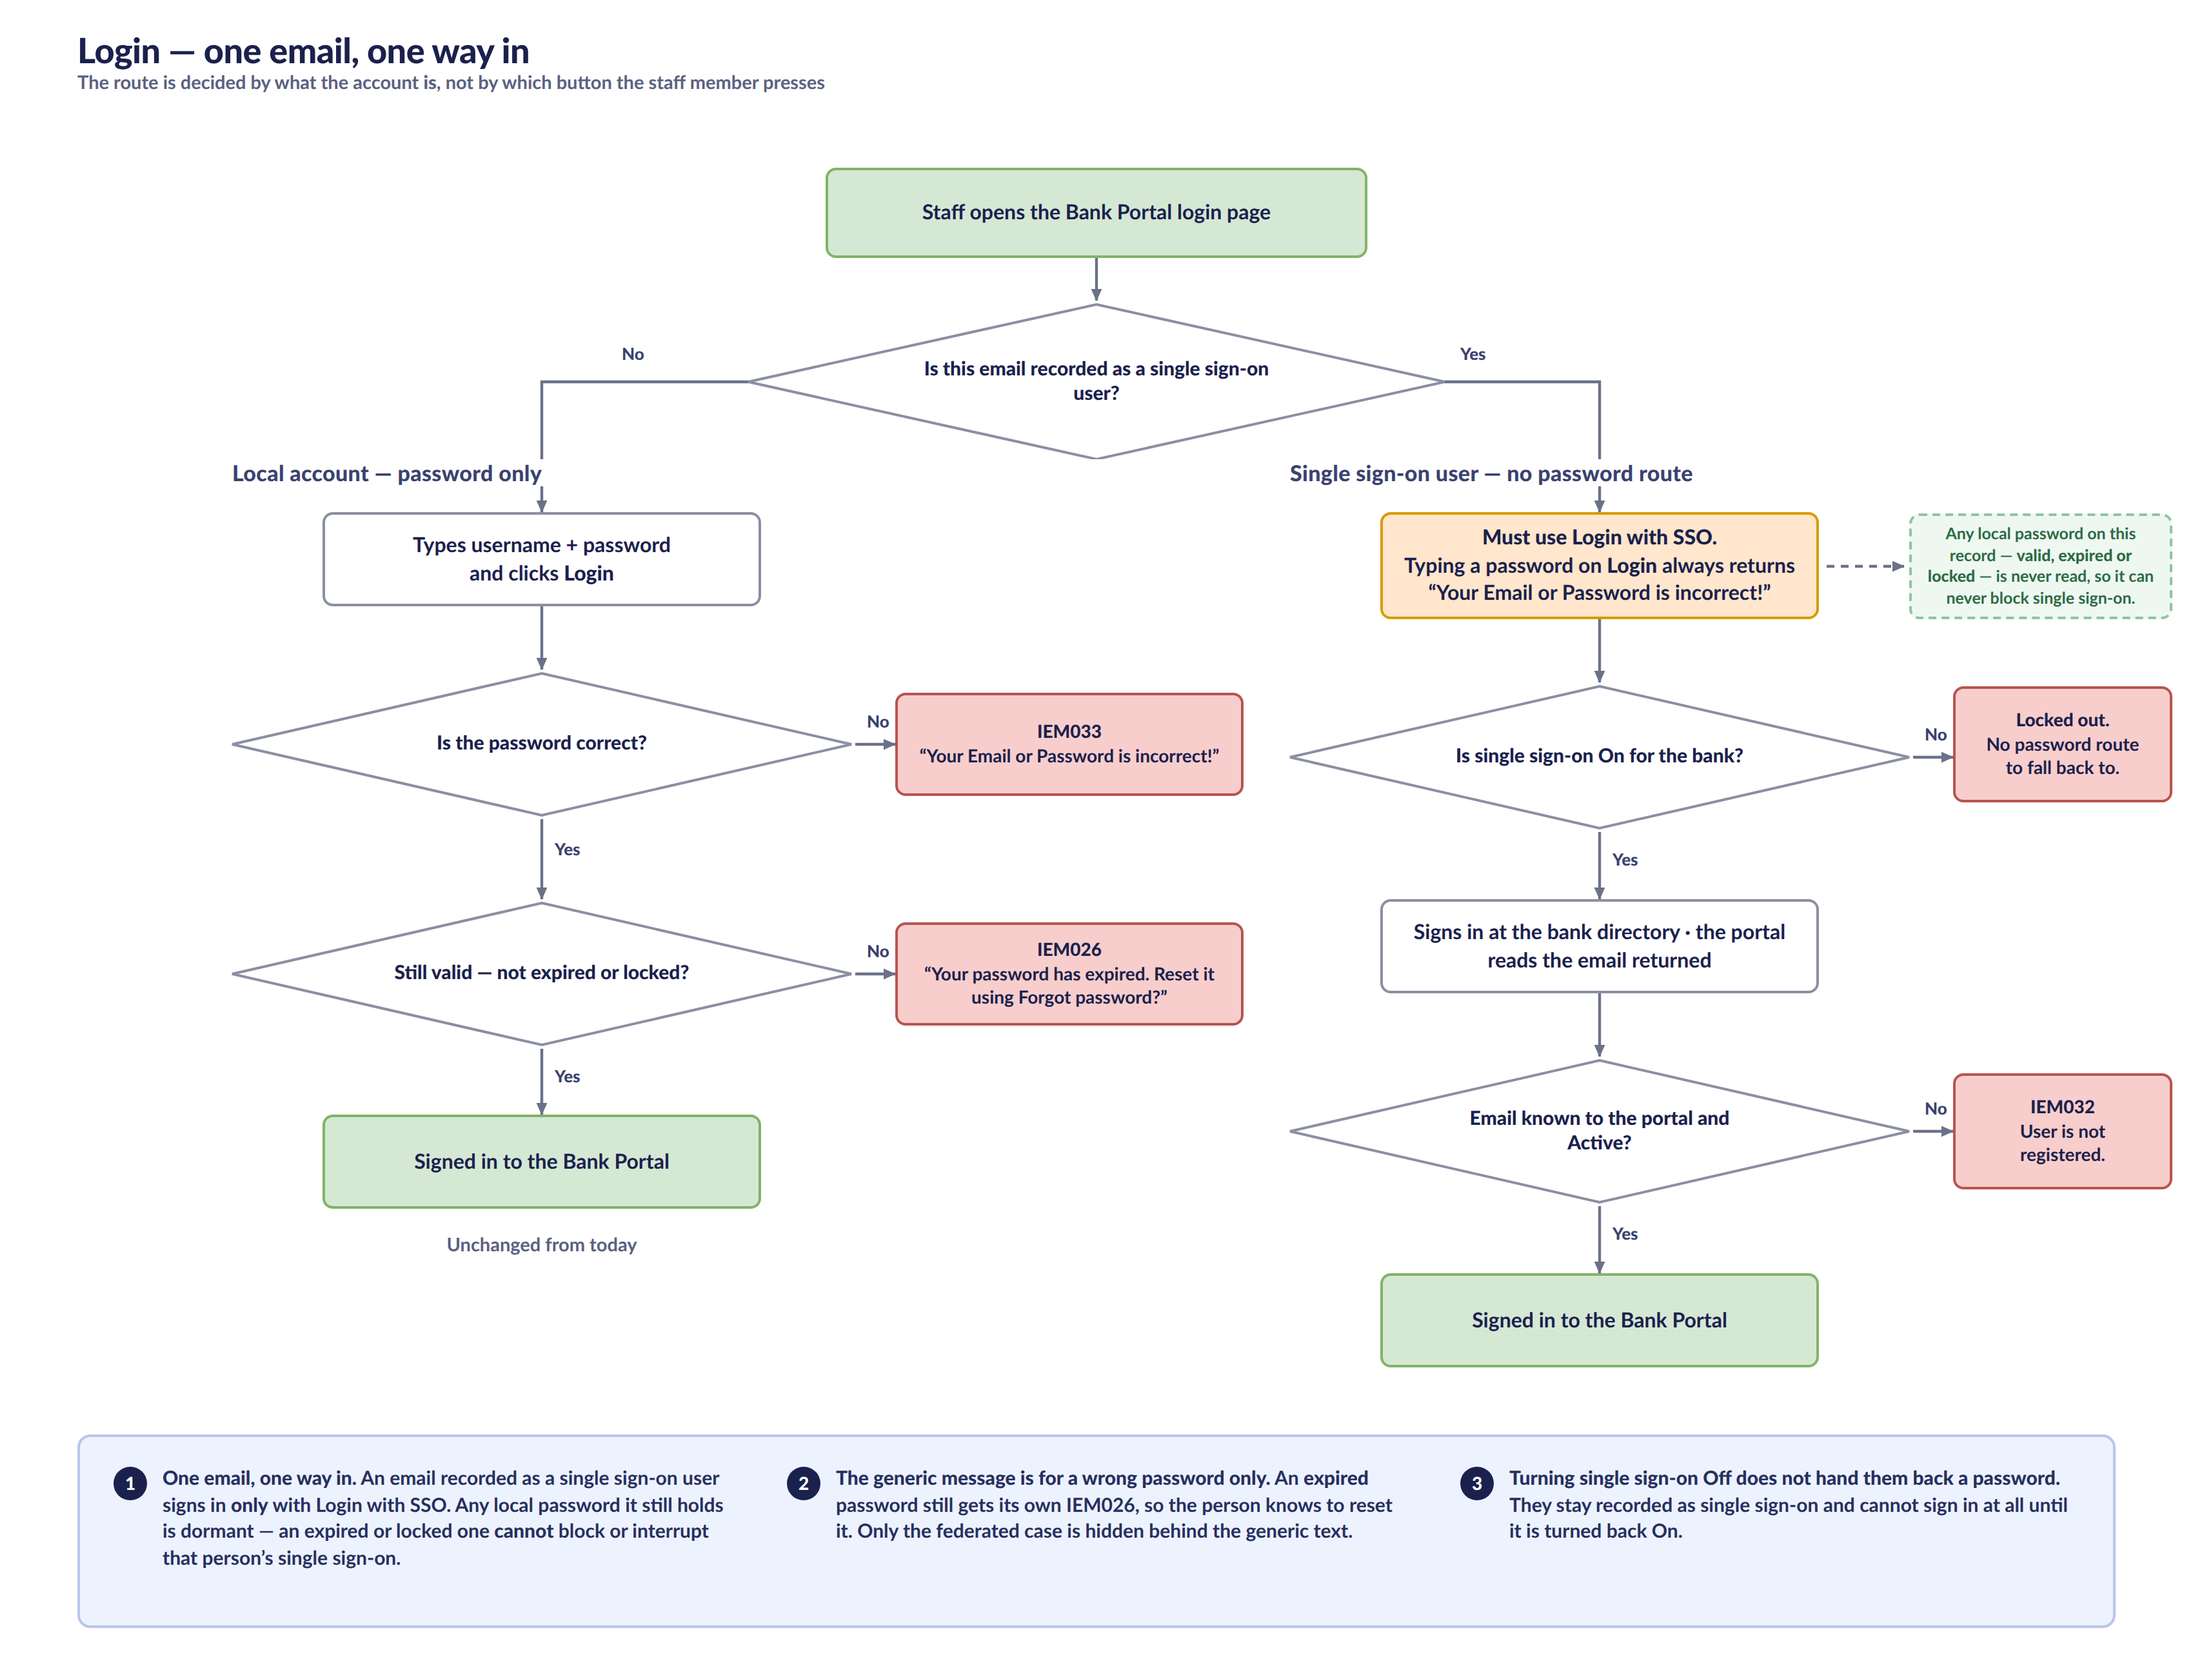
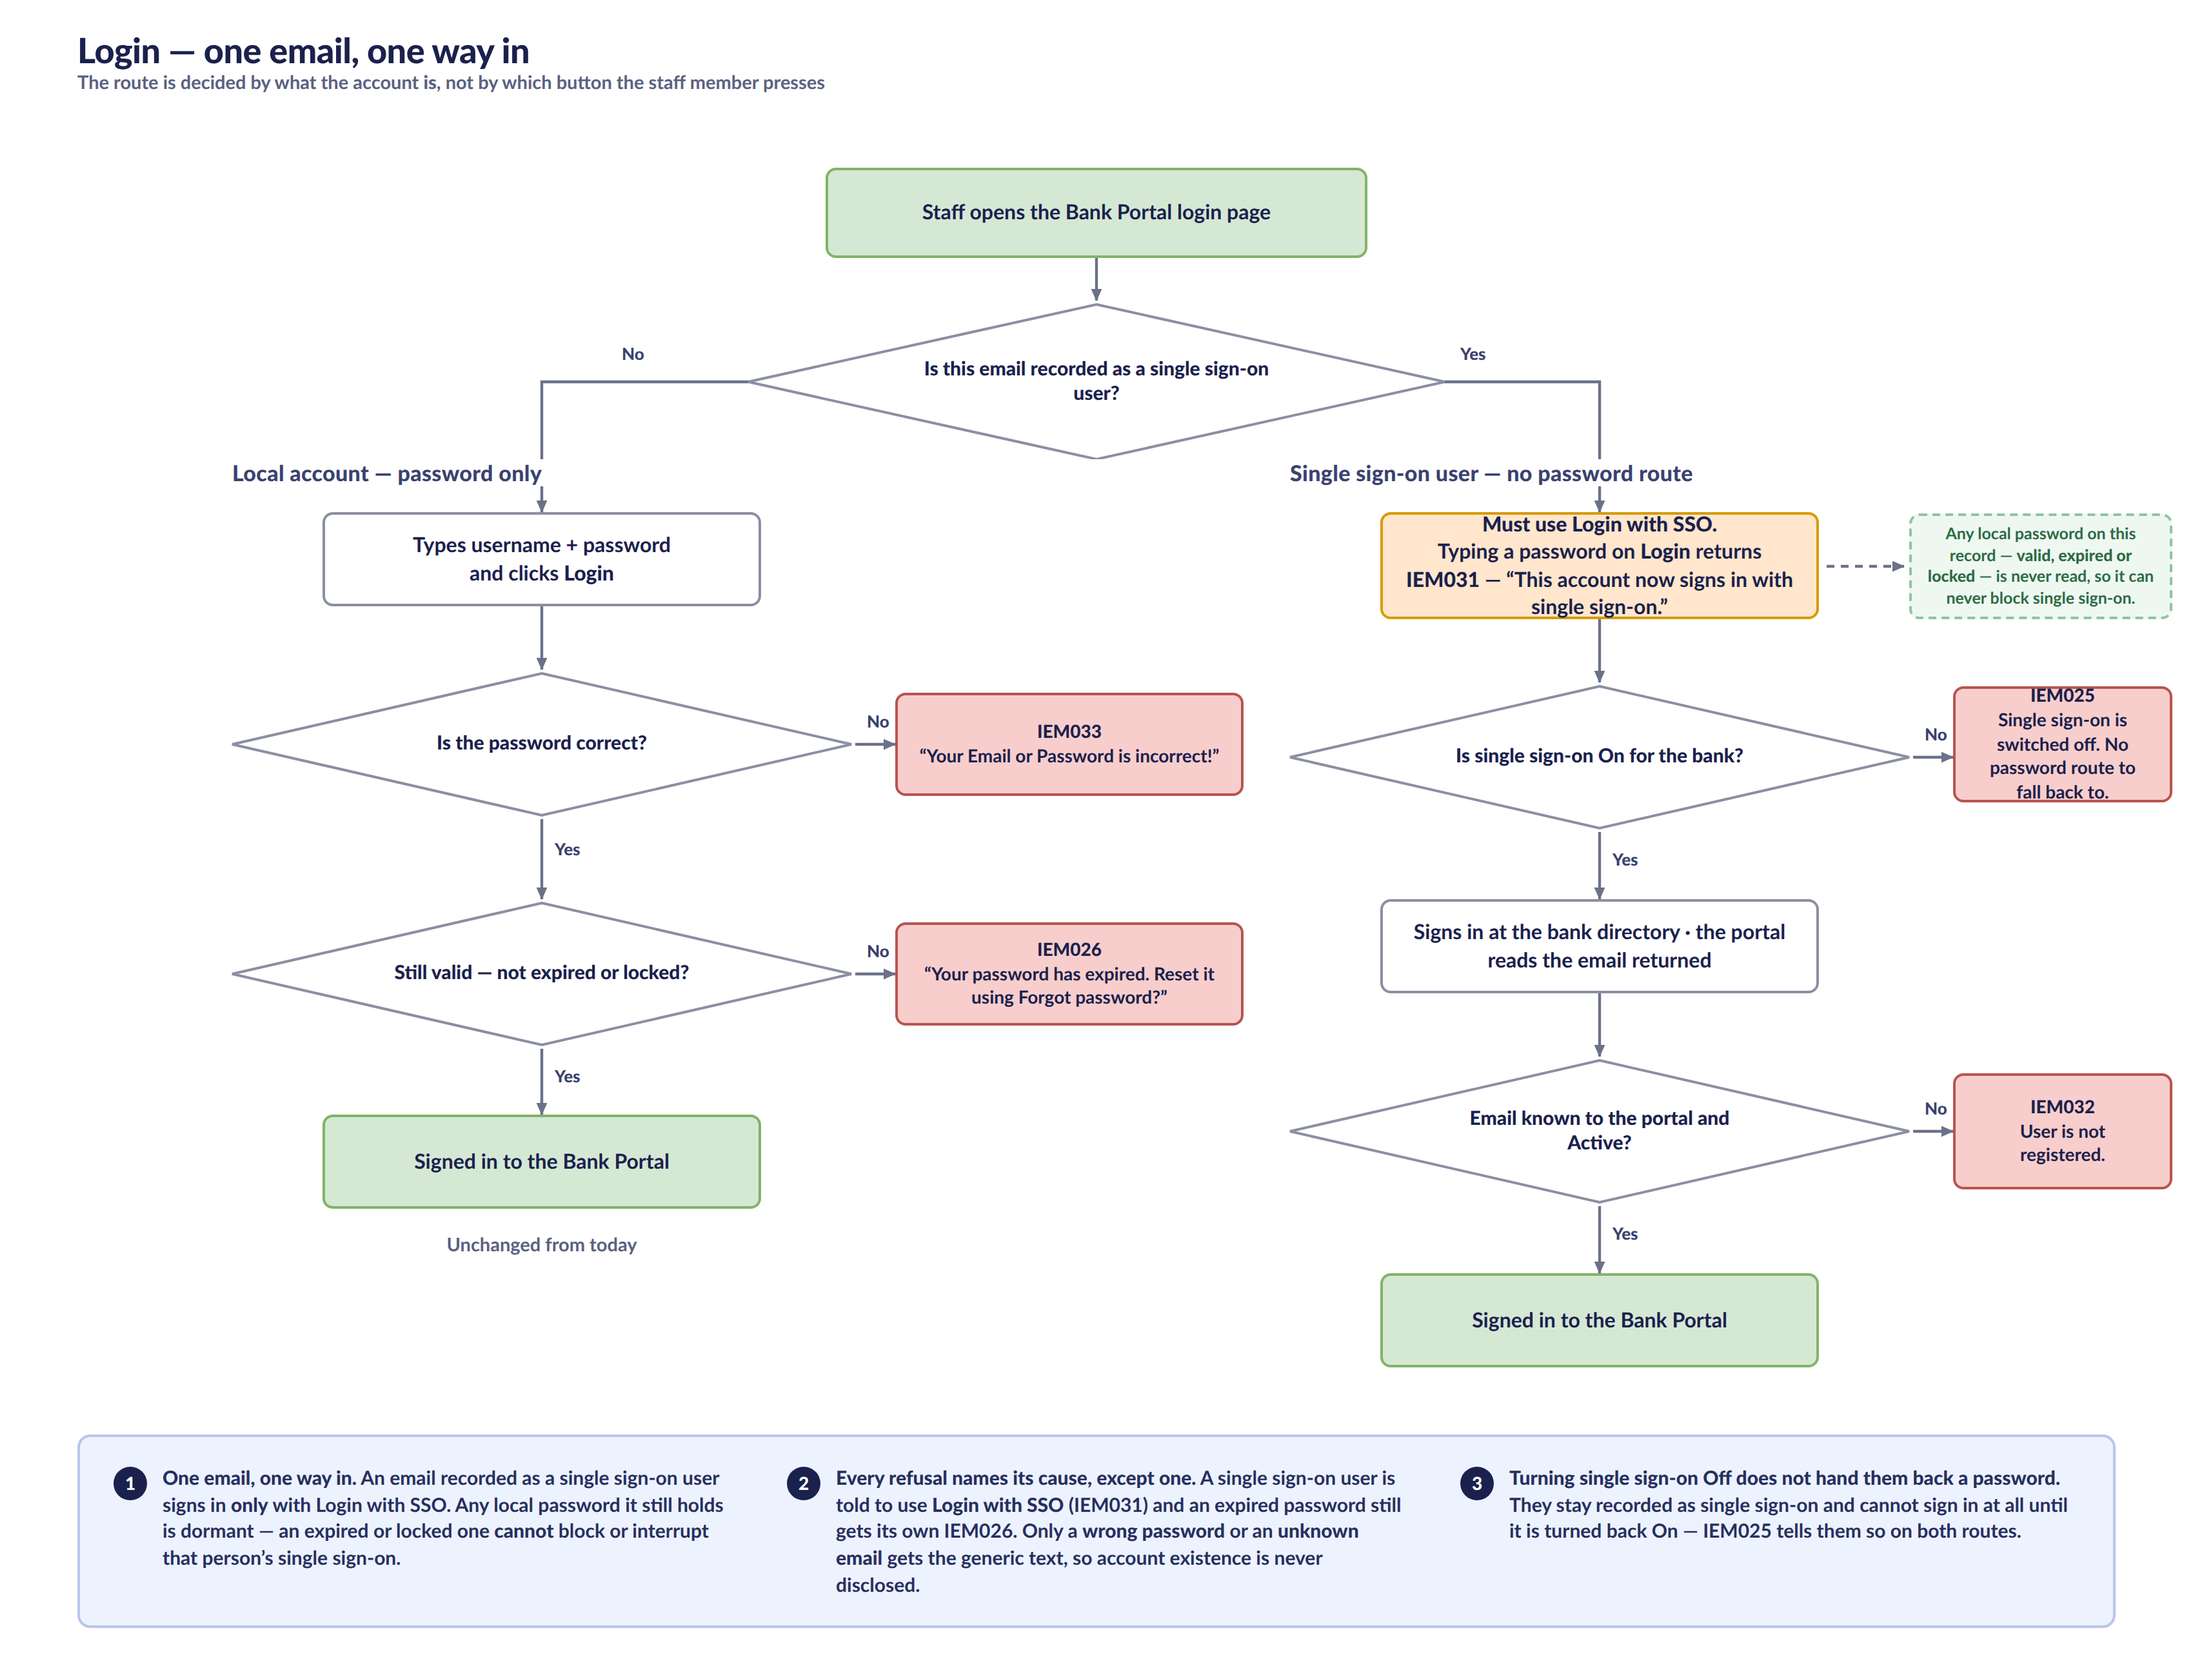
Login: name the sign-in method instead of refusing silently
A single sign-on user who tries the password route now gets IEM031 telling
them to use Login with SSO, and IEM025 when single sign-on is switched off,
instead of the generic refusal. The generic message is kept for a wrong
password and an unknown email only, so account existence is still never
disclosed. Flow diagram and login screens updated to match.

Claude-Session: https://claude.ai/code/session_01WLahjovvzGmaLqPdFzgAEY

diff --git a/sso-prototype/index.html b/sso-prototype/index.html
@@ -347,7 +347,8 @@ $('#eye').addEventListener('click',()=>{S.showPwd=!S.showPwd;p.type=S.showPwd?'t
 $('#forgot').addEventListener('click',()=>{toast('If this username exists, a reset email has been sent.')});
 $('#loginCard').addEventListener('submit',()=>{
   const e=u.value.trim().toLowerCase(),acc=USERS[e];clearMsgs();
-  if(usesSso(acc)||!acc||acc.src!=='Portal'||p.value==='wrong'){$('#pwdFi').classList.add('err');pwdMsg.innerHTML=inlineErr('Your Email or Password is incorrect!');return}
+  if(usesSso(acc)){$('#pwdFi').classList.add('err');pwdMsg.innerHTML=inlineErr(S.sso==='on'?'<b>This account now signs in with single sign-on.</b> Select “Login with SSO” to continue.':'Single sign-on is currently switched off for your organisation. Please contact your administrator.');return}
+  if(!acc||acc.src!=='Portal'||p.value==='wrong'){$('#pwdFi').classList.add('err');pwdMsg.innerHTML=inlineErr('Your Email or Password is incorrect!');return}
   if(acc.pwd==='expired'){$('#pwdFi').classList.add('err');pwdMsg.innerHTML=inlineErr('<b>Your password has expired.</b> Reset it using “Forgot password?” to continue.');return}
   if(acc.pwd==='notset'){$('#pwdFi').classList.add('err');pwdMsg.innerHTML=inlineErr('No password has been set yet. Check your email for the invitation link.');return}
   signIn(e,'password');
